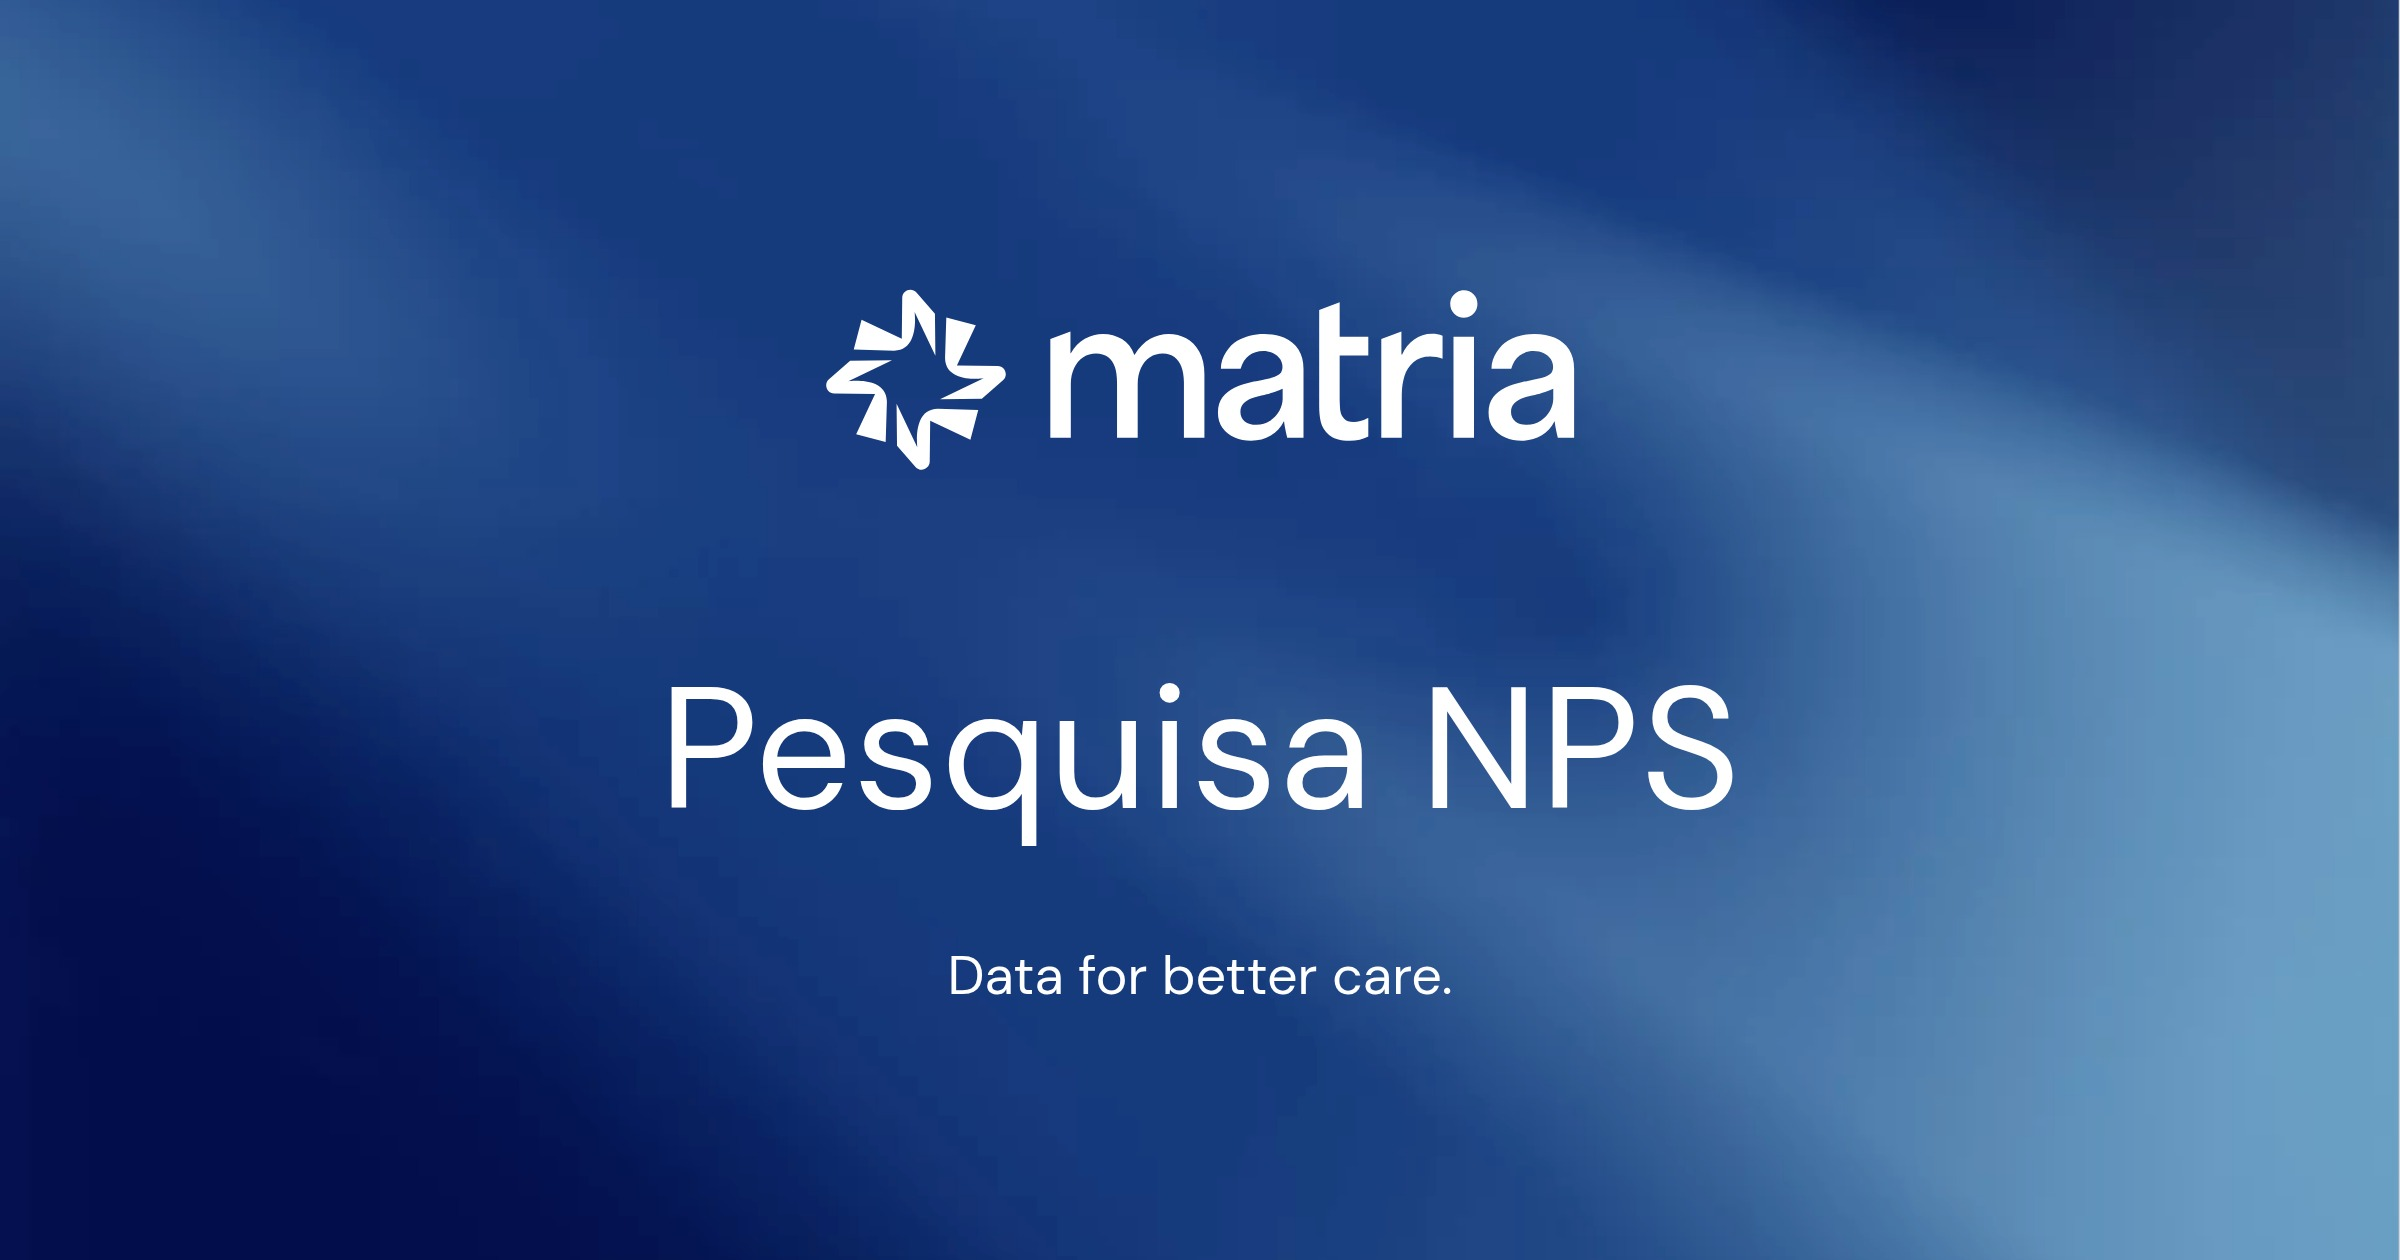
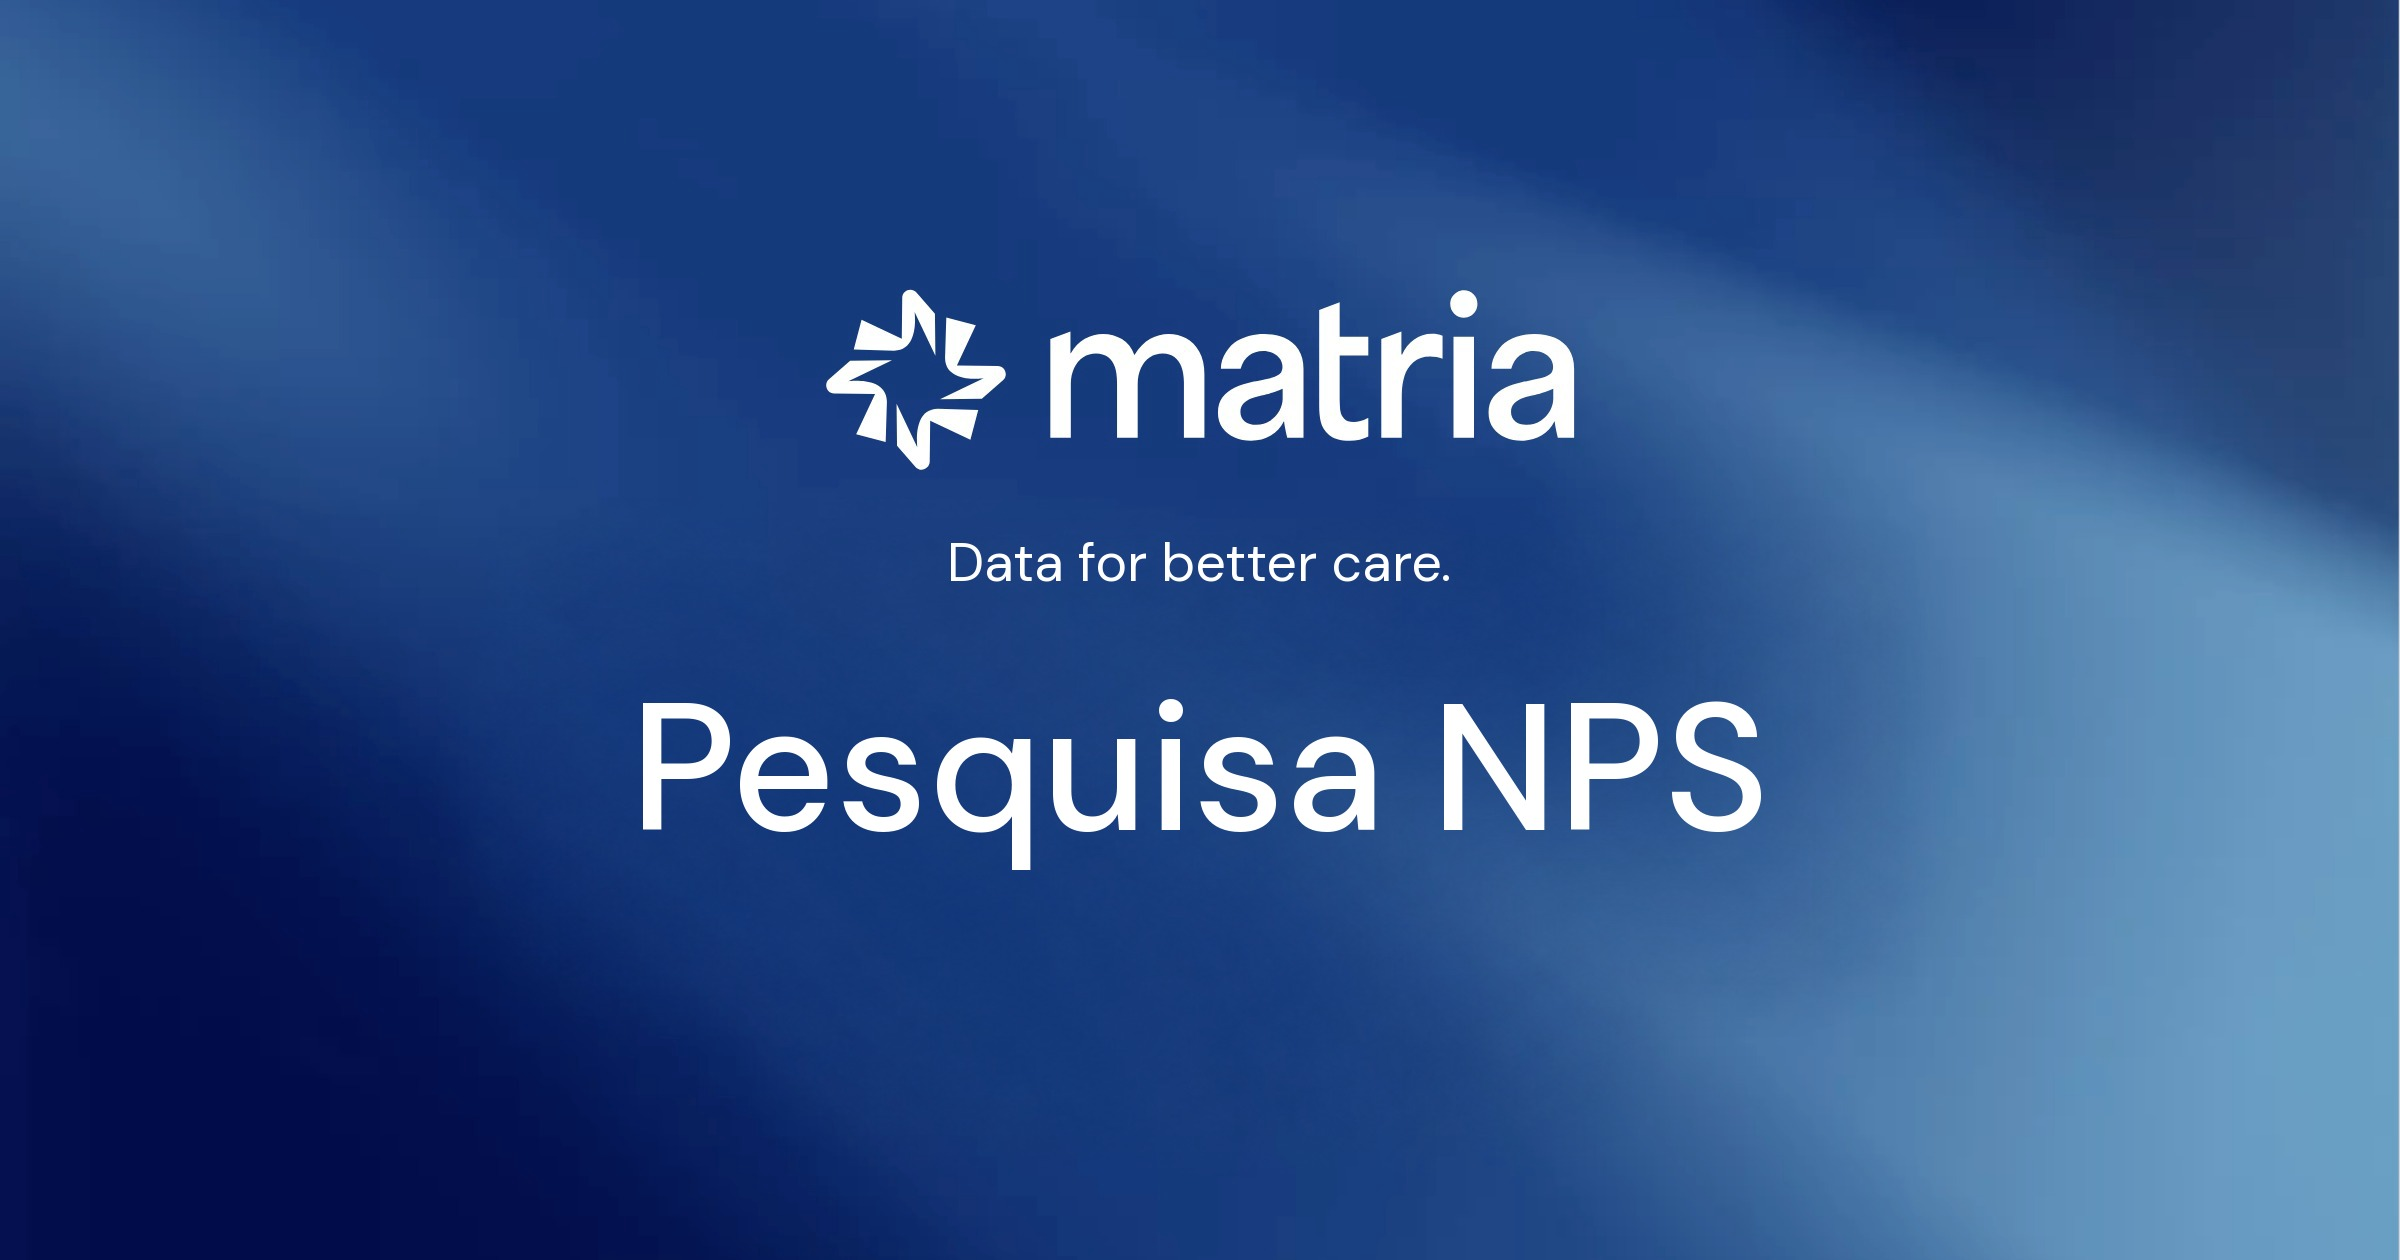
Changes

Changed region(s): [[0.25, 0.5262, 0.75, 0.681], [0.4062, 0.7429, 0.5938, 0.8048], [0.375, 0.4333, 0.5938, 0.4643]]

diff --git a/src/lib/access.test.ts b/src/lib/access.test.ts
@@ -1,5 +1,5 @@
 import { describe, expect, it } from "vitest";
-import { canOpen, topRole } from "./access";
+import { ACCESS_ROLES, ROLE_LABEL, canManageUser, canOpen, topRole } from "./access";
 
 describe("tipos de acesso", () => {
   it("Administrador abre tudo", () => {
@@ -20,3 +20,13 @@ describe("tipos de acesso", () => {
     expect(topRole([])).toBe(null);
   });
 });
+
+describe("gestão de usuários na lista", () => {
+  for (const role of ACCESS_ROLES) {
+    it(`${ROLE_LABEL[role]} pode ser alterado, desativado ou excluído`, () => {
+      expect(canManageUser({ role, isMe: false })).toBe(true);
+      expect(canManageUser({ role, isMe: true })).toBe(true);
+    });
+  }
+});
+

diff --git a/roadmap.md b/roadmap.md
@@ -69,3 +69,8 @@
 - [x] 2. Bloco "Conta" retirado de Configurações, porque o cadastro de usuários já faz isso
 - [x] 3. Clientes: botões "Planilha modelo" e "Importar planilha", com conferência linha a linha
 - [x] 4. Todas as planilhas baixadas (modelos e exportações) com o mesmo visual: cabeçalho azul-marinho com letra branca, linhas zebradas, cabeçalho congelado e filtros
+
+# Prompt 10 (sem limites de acesso e imagem da prévia)
+- [x] 1. Cadastro de usuários sem limites: qualquer linha, de qualquer tipo, pode ser alterada, desativada ou excluída, inclusive a sua, com aviso antes de mexer no próprio acesso
+- [x] 2. Imagem da prévia: "Data for better care." logo abaixo da logo da Matria e "Pesquisa NPS" abaixo dela
+
